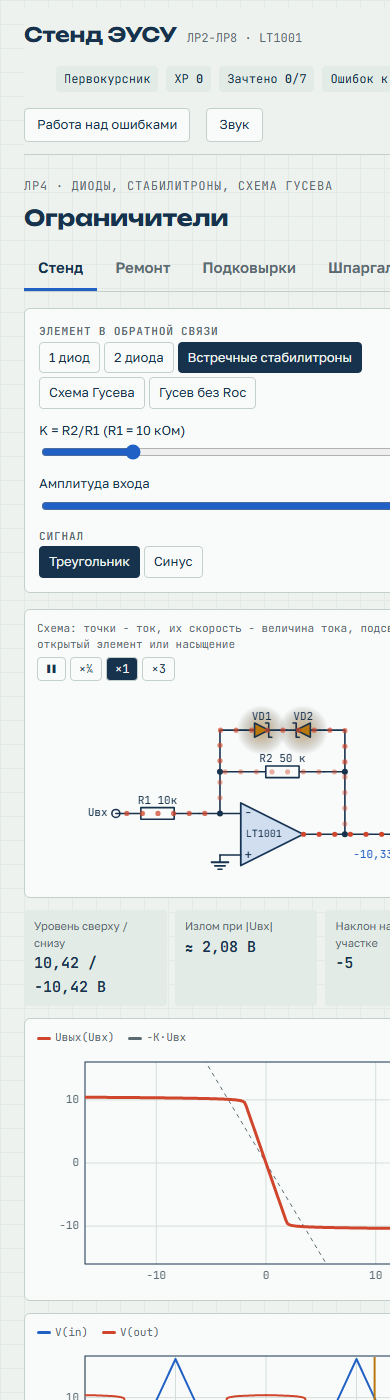
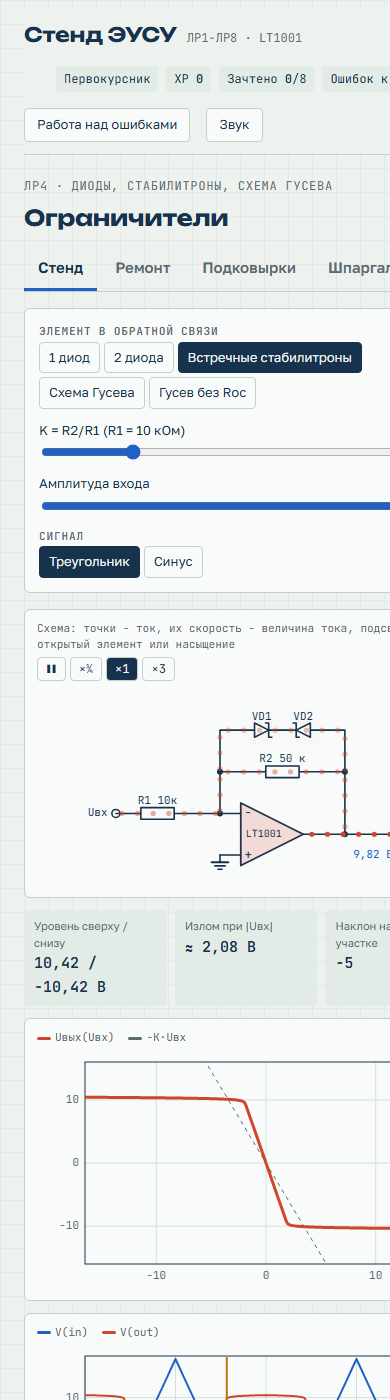
add lab 1 bench

diff --git a/index.html b/index.html
@@ -207,11 +207,11 @@ body::before { content: ""; position: fixed; inset: 0 0 auto; height: env(safe-a
 <body>
 <div class="wrap">
   <header class="top">
-    <button class="brand" id="home" type="button"><h1>Стенд ЭУСУ</h1><span>ЛР2-ЛР8 · LT1001</span></button>
+    <button class="brand" id="home" type="button"><h1>Стенд ЭУСУ</h1><span>ЛР1-ЛР8 · LT1001</span></button>
     <div class="stats">
       <span class="stat" id="rank">Первокурсник</span>
       <span class="stat">XP <b id="xp">0</b></span>
-      <span class="stat">Зачтено <b id="passed">0</b>/7</span>
+      <span class="stat">Зачтено <b id="passed">0</b>/8</span>
       <span class="stat">Ошибок к повтору <b id="due">0</b></span>
     </div>
     <button class="navbtn" id="review" type="button">Работа над ошибками</button>
@@ -531,6 +531,94 @@ function animDraw(dt) {
     }
   }
 }
+
+// ---------- ЛР1: дифференциальный усилитель и сумматоры ----------
+// постоянный ток, конечное усиление A = 7·10^5, насыщение ±13,5 В, предел выходного тока 25 мА
+const OA1 = { A: 7e5, Usat: 13.5, Imax: 0.025 };
+function lr1Solve(s, U1, U2) {
+  const k = s.k, A = OA1.A;
+  let Vo, Um, Up, Iout, lim = '';
+  if (s.c === 'diff') {
+    const R1 = 5e3 * k, R2 = 10e3 * k, R3 = 5e3 * k, R4 = 10e3 * k * (1 + s.mis / 100);
+    Up = U2 * R4 / (R3 + R4);
+    Vo = A * (Up - U1 * R2 / (R1 + R2)) / (1 + A * R1 / (R1 + R2));
+    Iout = (Vo - U1) / (R1 + R2);
+    if (Math.abs(Iout) > OA1.Imax) { Iout = Math.sign(Iout) * OA1.Imax; Vo = U1 + Iout * (R1 + R2); lim = 'ток'; }
+    if (Math.abs(Vo) > OA1.Usat) { Vo = Math.sign(Vo) * OA1.Usat; Iout = (Vo - U1) / (R1 + R2); lim = 'насыщение'; }
+    Um = U1 + (Vo - U1) * R1 / (R1 + R2);
+    return { Vo, Um, Up, Iout, i1: (U1 - Um) / R1, i2: U2 / (R3 + R4), lim, ideal: 2 * (U2 - U1) };
+  }
+  if (s.c === 'inv') {
+    const R1 = 5e3 * k, R2 = 10e3 * k, R3 = 5e3 * k, G = 1 / R1 + 1 / R3 + 1 / R2, a = (U1 / R1 + U2 / R3) / G;
+    Vo = -A * a / (1 + A / (R2 * G));
+    Um = a + Vo / (R2 * G);
+    Iout = (Vo - Um) / R2;
+    if (Math.abs(Iout) > OA1.Imax) { Iout = Math.sign(Iout) * OA1.Imax; Vo = (Iout * R2 + a) / (1 - 1 / (R2 * G)); lim = 'ток'; }
+    if (Math.abs(Vo) > OA1.Usat) { Vo = Math.sign(Vo) * OA1.Usat; lim = 'насыщение'; }
+    Um = a + Vo / (R2 * G); Iout = (Vo - Um) / R2;
+    return { Vo, Um, Up: 0, Iout, i1: (U1 - Um) / R1, i2: (U2 - Um) / R3, lim, ideal: -2 * U1 - 2 * U2 };
+  }
+  const R1 = 25e3 * k, R3 = 50e3 * k, R6 = 100e3 * k, R5 = 100e3 * k, R2 = 600e3 * k;
+  Up = (U1 / R1 + U2 / R3) / (1 / R1 + 1 / R3 + 1 / R6);
+  Vo = A * Up / (1 + A * R5 / (R2 + R5));
+  Iout = Vo / (R2 + R5);
+  if (Math.abs(Iout) > OA1.Imax) { Iout = Math.sign(Iout) * OA1.Imax; Vo = Iout * (R2 + R5); lim = 'ток'; }
+  if (Math.abs(Vo) > OA1.Usat) { Vo = Math.sign(Vo) * OA1.Usat; Iout = Vo / (R2 + R5); lim = 'насыщение'; }
+  Um = Vo * R5 / (R2 + R5);
+  return { Vo, Um, Up, Iout, i1: (U1 - Up) / R1, i2: (U2 - Up) / R3, lim, ideal: 4 * U1 + 2 * U2 };
+}
+const LR1C = { diff: 'Дифференциальный', inv: 'Инвертирующий сумматор', non: 'Неинвертирующий сумматор' };
+const LR1 = {
+  init: { c: 'diff', mode: 'dc', U1: -2, U2: -1, amp: 1, k: 1, mis: 0 },
+  controls: s => [
+    { type: 'seg', key: 'c', label: 'Схема', opts: Object.entries(LR1C) },
+    { type: 'seg', key: 'mode', label: 'Сигналы', opts: [['dc', 'Постоянные U1, U2'], ['cm', 'Синфазный синус'], ['one', 'Синус только на U1']] },
+    ...(s.mode === 'dc' ? [{ type: 'range', key: 'U1', label: 'U1', min: -3, max: 3, step: 0.1, show: v => fmt(v, 1) + ' В' }, { type: 'range', key: 'U2', label: 'U2', min: -3, max: 3, step: 0.1, show: v => fmt(v, 1) + ' В' }]
+      : [{ type: 'range', key: 'amp', label: 'Амплитуда синуса 1 кГц', min: 0.1, max: 5, step: 0.1, show: v => fmt(v, 1) + ' В' }]),
+    { type: 'range', key: 'k', label: 'Масштаб всех резисторов', min: 0.0005, max: 100, log: true, show: v => '×' + (v < 0.01 ? fmt(v, 4) : fmt(v, 2)) },
+    ...(s.c === 'diff' ? [{ type: 'range', key: 'mis', label: 'Разброс R4 относительно нормы', min: -10, max: 10, step: 0.5, show: v => (v > 0 ? '+' : '') + fmt(v, 1) + ' %' }] : []),
+  ],
+  view(s) {
+    const t = [], u1 = [], u2 = [], vo = [], frames = [];
+    for (let i = 0; i <= 240; i++) {
+      const tt = 2 * i / 240, sn = Math.sin(2 * Math.PI * tt);
+      const a = s.mode === 'dc' ? s.U1 : s.amp * sn, b = s.mode === 'dc' ? s.U2 : s.mode === 'cm' ? s.amp * sn : 0;
+      const r = lr1Solve(s, a, b);
+      t.push(tt); u1.push(a); u2.push(b); vo.push(r.Vo);
+      frames.push({ up: r.Up, i1: r.i1, i2: r.i2, ifb: r.i1 + r.i2, iout: r.Iout, vout: r.Vo, oa: r.lim ? Math.sign(r.Vo) : r.Vo / OA1.Usat * 0.6, lim: r.lim ? 1 : 0 });
+    }
+    const r = lr1Solve(s, u1[30], u2[30]);
+    const xs = [], ys = [];
+    for (let i = 0; i <= 200; i++) { const x = -6 + 12 * i / 200; xs.push(x); ys.push(lr1Solve(s, x, s.mode === 'dc' ? s.U2 : 0).Vo); }
+    const R = v => si(v * s.k, 'Ом', 2);
+    const res = { diff: `R1 = R3 = ${R(5e3)}, R2 = ${R(10e3)}, R4 = ${si(10e3 * s.k * (1 + s.mis / 100), 'Ом', 3)}`, inv: `R1 = R3 = ${R(5e3)}, R2 = ${R(10e3)}`, non: `R1 = ${R(25e3)}, R3 = ${R(50e3)}, R5 = R6 = ${R(100e3)}, R2 = ${R(600e3)}` }[s.c];
+    const ro = [['Uвых', fmt(r.Vo, 4) + ' В'], ['По формуле', fmt(r.ideal, 3) + ' В'], ['U− / U+', fmt(r.Um, 4) + ' / ' + fmt(r.Up, 4) + ' В'], ['Ток выхода ОУ', si(Math.abs(r.Iout), 'А')]];
+    if (r.lim) ro.push(['Ограничение', r.lim === 'ток' ? 'предел тока 25 мА' : 'насыщение ±13,5 В']);
+    if (s.mode !== 'dc') ro.unshift(['Значения', 'на пике синуса, t = 0,25 мс']);
+    const notes = {
+      diff: 'Uвых = K(U2 − U1), если R2/R1 = R4/R3. Синфазная часть вычитается сама из себя. Сдвинь разброс R4 и подай синфазный синус: на выход пролезет помеха. Вход U1 нагружает источник на 5 кОм, вход U2 на 15 кОм.',
+      inv: 'Минус - виртуальная земля, токи входов U1/R1 и U2/R3 не мешают друг другу и вместе идут через R2. Уменьши резисторы в 1000 раз: токи станут сотни миллиампер, ОУ упрётся в предел тока, и виртуальная земля пропадёт.',
+      non: 'Плюс - взвешенное среднее входов (R6 участвует как вход с нулём), потом неинвертирующий усилитель ×7. Веса 4 и 2 получаются только при R2/R5 = K1 + K2.',
+    };
+    return {
+      anim: { t, plot: 0, frames },
+      v: { r, vmax: Math.max(...vo.map(Math.abs)) },
+      readouts: ro,
+      plots: [
+        { legend: [['--ch1', 'U1'], ['--ch3', 'U2'], ['--ch2', 'Uвых']], cfg: { x: { min: 0, max: 2, fmt: v => fmt(v, 1) }, y: (() => { const m = Math.max(1, ...vo.map(Math.abs), ...u1.map(Math.abs), ...u2.map(Math.abs)) * 1.15; return { min: -m, max: m, fmt: v => fmt(v, 1) }; })(),
+          series: [{ x: t, y: u1, color: css('--ch1') }, { x: t, y: u2, color: css('--ch3'), dash: [6, 4] }, { x: t, y: vo, color: css('--ch2'), w: 2.5 }], xlabel: 'мс' } },
+        { legend: [['--ch2', 'Uвых(U1), U2 ' + (s.mode === 'dc' ? '= ' + fmt(s.U2, 1) + ' В' : '= 0')]], cfg: { x: { min: -6, max: 6, fmt: v => fmt(v, 0) }, y: { min: -15, max: 15, fmt: v => fmt(v, 0) },
+          series: [{ x: xs, y: ys, color: css('--ch2'), w: 3 }], hlines: [{ y: 13.5, color: css('--muted') }, { y: -13.5, color: css('--muted') }], points: s.mode === 'dc' ? [{ x: s.U1, y: r.Vo, color: css('--ch1') }] : [], xlabel: 'U1, В' } },
+      ],
+      note: notes[s.c] + ' Номиналы: ' + res + '.',
+    };
+  },
+  missions: [
+    { id: 'cmzero', text: 'Дифференциальный: подай синфазный синус и убедись, что выход ноль.', check: (s, v) => s.c === 'diff' && s.mode === 'cm' && s.mis === 0 && v.vmax < 1e-3 },
+    { id: 'leak', text: 'Дифференциальный, синфазный синус 1 В: сделай разброс R4 таким, чтобы на выход пролезло больше 30 мВ.', check: (s, v) => s.c === 'diff' && s.mode === 'cm' && v.vmax > 0.03, after: 'Помеха ≈ Uсф·ΔR/R·K/(1+K): точность резисторов решает всё.' },
+    { id: 'ilim', text: 'Инвертирующий сумматор, U1 = 1 В, U2 = 2 В: уменьши резисторы так, чтобы ОУ упёрся в предел тока.', check: (s, v) => s.c === 'inv' && s.mode === 'dc' && v.r.lim === 'ток', after: 'При 5 и 10 Ом токи 0,2 + 0,4 = 0,6 А, а ОУ даёт около 25 мА.' },
+  ],
+};
 
 // ---------- ЛР2: интегратор и дифференциатор ----------
 const LR2C = {
@@ -1111,6 +1199,53 @@ const LR8 = {
 // ---------- вопросы ----------
 // type c: варианты [текст, верно?, почему]; type n: число с допуском (rel или abs)
 const Q = {
+lr1: [
+  { id: 'z1', t: 'n', q: 'Дифференциальный усилитель с K = 2: U1 = −2 В, U2 = −1 В. Чему равен выход?', ans: 2, abs: 0.02, unit: 'В', exp: 'Uвых = K(U2 − U1) = 2·(−1 + 2) = 2 В. По наложению: вклад U1 = −2·(−2) = 4 В, вклад U2 = 2·(−1) = −2 В.' },
+  { id: 'z2', t: 'c', q: 'На оба входа дифференциального усилителя подали одинаковый синус 1 В. Что на выходе?', o: [
+    ['Ноль: синфазная часть вычитается сама из себя', 1, 'U2 − U1 = 0. Так подавляется помеха, наведённая одновременно на оба провода.'],
+    ['Синус 2 В', 0, 'Это было бы при сигнале только на одном входе.'],
+    ['Синус 4 В', 0, 'Синфазный сигнал не складывается.'],
+    ['Насыщение', 0, 'Выходу нечего усиливать.']], exp: 'Подавление полное, только если R2/R1 = R4/R3 точно.', say: 'Дифференциальный усилитель усиливает разность входов, а одинаковую (синфазную) часть подавляет при согласованных отношениях резисторов.' },
+  { id: 'z3', t: 'c', q: 'В дифференциальном усилителе R4 отличается от нормы на 5 %. Синфазный синус 1 В. Что изменится?', o: [
+    ['На выход пролезет часть синфазного сигнала, десятки милливольт', 1, 'Условие R2/R1 = R4/R3 нарушено, вклады входов больше не равны по модулю: Uвых ≈ Uсф·ΔR/R·K/(1+K) ≈ 33 мВ.'],
+    ['Ничего: схема всё равно вычитает', 0, 'Вычитает, только если веса входов одинаковы.'],
+    ['Выход уйдёт в насыщение', 0, 'Помеха маленькая, до насыщения далеко.'],
+    ['Коэффициент станет 2,1 для разности, а синфазный по-прежнему ноль', 0, 'Нет, именно синфазный перестаёт подавляться.']], exp: 'Поэтому в измерительных усилителях ставят точные согласованные резисторы.' },
+  { id: 'z4', t: 'n', q: 'Инвертирующий сумматор, R1 = R3 = 5 кОм, R2 = 10 кОм. U1 = 1 В, U2 = 2 В. Выход?', ans: -6, abs: 0.02, unit: 'В', exp: 'Uвых = −R2(U1/R1 + U2/R3) = −2·1 − 2·2 = −6 В.' },
+  { id: 'z5', t: 'n', q: 'Тот же сумматор, U1 = 1 В, U2 = 2 В. Ток через R2, мА?', ans: 0.6, abs: 0.01, unit: 'мА', exp: 'I1 = 1/5000 = 0,2 мА, I2 = 2/5000 = 0,4 мА. В ОУ ток не втекает, оба идут через R2: 0,6 мА.' },
+  { id: 'z6', t: 'c', q: 'В инвертирующем сумматоре все резисторы уменьшили в 1000 раз: 5 Ом и 10 Ом. U1 = 1 В, U2 = 2 В. Что будет?', o: [
+    ['Токи 0,2 + 0,4 = 0,6 А, а ОУ отдаёт около 25 мА: выход упрётся в предел тока, виртуальная земля пропадёт, сумма не получится', 1, 'Формула −R2(U1/R1 + U2/R3) не зависит от масштаба, но выполняется, только пока ОУ может отдать нужный ток. Ещё и источники сигнала будут нагружены на 5 Ом.'],
+    ['То же −6 В: важны только отношения резисторов', 0, 'Отношения важны, но ток через R2 вырастет в 1000 раз, до 0,6 А.'],
+    ['Выход станет −6000 В', 0, 'Коэффициенты не изменились, а выход ограничен питанием.'],
+    ['ОУ станет точнее', 0, 'Наоборот, он не вытянет ток.']], exp: 'Номиналы выбирают в разумных пределах: килоомы - сотни килоом. Слишком маленькие перегружают ОУ и источники, слишком большие (мегаомы) делают заметными токи смещения и шум.', say: 'Коэффициенты задают отношения резисторов, а абсолютные номиналы задают токи. При 5 и 10 Ом нужен ток 0,6 А, ОУ даёт десятки миллиампер, и схема перестаёт работать.' },
+  { id: 'z7', t: 'c', q: 'А если все резисторы сумматора увеличить в 1000 раз (5 и 10 МОм)?', o: [
+    ['Работает, но заметнее станут токи смещения ОУ и шум, а схема чувствительнее к наводкам', 1, 'Токи станут сотни наноампер, сравнимые с входными токами ОУ.'],
+    ['Выход станет −6000 В', 0, 'Коэффициенты прежние.'],
+    ['ОУ сгорит', 0, 'Токи наоборот малы.'],
+    ['Выход станет ноль', 0, 'Нет.']], exp: 'Отсюда типичный диапазон: единицы - сотни килоом.' },
+  { id: 'z8', t: 'c', q: 'Что такое виртуальная земля на минусе инвертирующего сумматора?', o: [
+    ['Точка не соединена с землёй, но обратная связь удерживает на ней почти 0 В', 1, 'U− = U+ − Uвых/A, а плюс на земле: при A = 7·10⁵ разница микровольты.'],
+    ['Минус ОУ соединён с землёй проводом', 0, 'Тогда схема не работала бы.'],
+    ['Место, где нет тока', 0, 'Через узел течёт ток входов в R2, он просто не уходит в сам ОУ.'],
+    ['Средняя точка питания', 0, 'Это про однополярное питание, как div2 в ЛР7.']], exp: 'Поэтому каждый вход сумматора видит только свой резистор, и входы не влияют друг на друга.' },
+  { id: 'z9', t: 'n', q: 'Неинвертирующий сумматор с K1 = 4, K2 = 2. U1 = 1 В, U2 = 2 В. Выход?', ans: 8, abs: 0.05, unit: 'В', exp: '4·1 + 2·2 = 8 В. Через схему: U+ = (1/25 + 2/50)/(1/25 + 1/50 + 1/100) = 1,143 В, ×(1 + 600/100) = 8 В.' },
+  { id: 'z10', t: 'c', q: 'Почему в неинвертирующем сумматоре R2 = 600 кОм при R5 = 100 кОм?', o: [
+    ['Условие весов: R2/R5 = R6/R1 + R6/R3 = 4 + 2 = 6', 1, 'Только тогда коэффициенты получаются ровно K1 = R6/R1 и K2 = R6/R3.'],
+    ['Чтобы K был максимальным', 0, 'K задан вариантом.'],
+    ['Для компенсации токов смещения', 0, 'Нет.'],
+    ['Случайный выбор', 0, 'Выведен из условия согласования.']], exp: 'Без этого условия веса будут отличаться от 4 и 2: вход R6 тоже участвует в усреднении.' },
+  { id: 'z11', t: 'c', q: 'Почему вход U1 дифференциального усилителя нагружает источник сильнее, чем U2?', o: [
+    ['U1 видит R1 = 5 кОм до виртуальной земли, U2 видит делитель R3 + R4 = 15 кОм', 1, 'Входы несимметричны по входному сопротивлению.'],
+    ['На U1 больше напряжение', 0, 'Зависит от схемы, а не от напряжения.'],
+    ['U1 на инвертирующем входе, а он всегда хуже', 0, 'Дело в резисторах.'],
+    ['Они нагружают одинаково', 0, 'Нет.']], exp: 'Если источники с большим внутренним сопротивлением, это нарушит согласование и подавление помехи.' },
+  { id: 'z12', t: 'n', q: 'У LT1001 A = 7·10⁵ и GBW = 0,8 МГц. На какой частоте начинается спад усиления, Гц?', ans: 1.14, rel: 0.05, unit: 'Гц', exp: 'fp = GBW/A = 0,8·10⁶ / 7·10⁵ ≈ 1,14 Гц. Выше неё A ≈ fT/f, это основа всех ограничений в ЛР2-ЛР5.' },
+  { id: 'z13', t: 'c', q: 'Почему в модели выход дифференциального усилителя 1,99999 В, а не ровно 2?', o: [
+    ['Конечное усиление ОУ: относительная ошибка около (1 + K)/A', 1, '3 / 7·10⁵ ≈ 4·10⁻⁶, то есть единицы микровольт на вольт.'],
+    ['Ошибка расчёта номиналов', 0, 'Номиналы точные.'],
+    ['Шум', 0, 'В модели нет шума.'],
+    ['Насыщение', 0, 'До 13,5 В далеко.']], exp: 'С идеальным ОУ (A = ∞) было бы ровно 2.' },
+],
 lr2: [
   { id: 'a1', t: 'n', q: 'Идеальный интегратор: R1 = 100 кОм, C1 = 795,8 пФ (K = 1 на 2 кГц). На вход синус 0,5 В на 200 Гц. Амплитуда выхода?', ans: 5, rel: 0.05, unit: 'В', exp: 'K = 1/(2πf·R1·C1). Частота в 10 раз ниже, Xc в 10 раз больше, K = 10. 0,5 × 10 = 5 В, это меньше 14 В, синус чистый.', say: 'K обратно пропорционален частоте: на 200 Гц K = 10, выход 5 В.' },
   { id: 'a2', t: 'c', q: 'Тот же интегратор, синус 0,5 В на 20 Гц. Что на выходе?', o: [
@@ -1392,6 +1527,7 @@ lr8: [
 
 // ---------- шпаргалки ----------
 const CHEAT = {
+  lr1: [['Два правила', 'Ток во входы ОУ ≈ 0, напряжения входов равны (пока ОУ не в насыщении).', 'I± ≈ 0, U+ ≈ U−'], ['Дифференциальный', 'K = R2/R1 = R4/R3 = 2. Усиливает разность, синфазную часть подавляет. Вход U1 5 кОм, U2 15 кОм.', 'Uвых = K(U2 − U1)'], ['Инвертирующий сумматор', 'Минус - виртуальная земля, токи входов складываются в R2. Входы не мешают друг другу.', 'Uвых = −R2(U1/R1 + U2/R3) = −2U1 − 2U2'], ['Неинвертирующий сумматор', 'U+ - взвешенное среднее входов с R6, затем ×(1 + R2/R5) = 7.', 'R2/R5 = K1 + K2 → 4U1 + 2U2'], ['Номиналы', 'Коэффициенты задают отношения, токи - абсолютные значения. 5 Ом: токи 0,6 А, ОУ даёт ~25 мА.', 'типично 1-500 кОм'], ['Модель LT1001', 'A = 7·10⁵, GBW = 0,8 МГц, SR 0,25 В/мкс, выход ±13,5 В.', 'fp = GBW/A ≈ 1,14 Гц']],
   lr2: [['Идеальный интегратор', 'K = 1/(2πfR1C1), на 2 кГц = 1. Ниже частоты K растёт - насыщение и дрейф.', 'Uвых = −(1/RC)∫Uвх dt'], ['Практический интегратор', 'R2 ∥ C1. Ниже fср усилитель с K = R2/R1 = 10, выше интегратор. fср в 10 раз ниже рабочей.', 'fср = 1/(2πR2C1) = 200 Гц'], ['R3', 'Компенсирует токи смещения, равен сопротивлению цепи минуса по постоянному току.', 'R3 = R1∥R2 ≈ 91 кОм'], ['Полоса ОУ', 'A = fT/f, fT ≈ 0,8 МГц. Усилитель с K работает до fT/K.', 'A(2 кГц) ≈ 400'], ['Пик дифференциатора', 'Растущий K встречает fT/f, фазы 90°+90°: LC-резонанс. 864 на 41,7 кГц.', 'f ≈ √(f₁·fT), L = R2/(2πfT)'], ['Практический дифференциатор', 'R1 ограничивает K до R2/R1 = 100 и гасит пик (90 на 12,6 кГц), C2 режет выше 200 кГц.', 'нужен ОУ с fT ≥ 2 МГц']],
   lr3: [['Компаратор', 'ОУ без отрицательной ОС, выход в насыщении ±14 В показывает, какой вход больше.', 'выход +, когда U+ > U−'], ['Ограничения', 'Усиление: Uвх > 14·f/fT. Скорость: 28 В / 0,25 В/мкс = 112 мкс на переход.', 'f < 1/(2·112 мкс)'], ['Одновходовый', 'Токи складываются на одном входе, порог масштабируется резисторами.', 'Uпор = −Uоп·R1/R2'], ['Гистерезис', 'Положительная ОС на плюс. После переключения порог отскакивает - шум не вызывает дребезга.', 'U+ = Uоп·R2/(R1+R2) ± Uнас·R1/(R1+R2)'], ['Триггер Шмитта', 'VT1 закорачивает R3, порог 7 → 3,96 В. D1 защищает переход Б-Э, стабилитрон даёт ТТЛ 4,7 В.', 'R_B по h21 min = 50'], ['Оконный', 'U1 выше H, U2 ниже L, диоды «ИЛИ», R4 тянет к нулю.', 'U точки = I·(всё ниже точки)']],
   lr4: [['Принцип', 'Инвертирующий усилитель K = 5 с нелинейным элементом параллельно R2. Минус - виртуальная земля, на элементе всё Uвых.', 'излом при |Uвх| = Uogr/K'], ['Диоды', 'Направление - какая полуволна, число - уровень: 0,61 и −1,21 В.', '≈ 0,6 В на диод'], ['Встречные стабилитроны', 'Один в пробое, другой прямо: ±10,43 В (ток 1,65 мА < 5 мА).', 'Uz + Ud'], ['Схема Гусева', 'Мост, стабилитрон держится в пробое от питания: излом резкий, ±11,37 В.', 'Uz + 2Ud, R2 = R3 = (2E − Uz)/(2Iz)'], ['Без Rос', 'Нет ООС в линейном режиме - компаратор с уровнями ±11,4 В.', '']],
@@ -1403,6 +1539,7 @@ const CHEAT = {
 
 // ---------- описание лаб ----------
 const LABS = [
+  { id: 'lr1', no: 'ЛР1', title: 'Дифференциальный усилитель и сумматоры', sub: 'Виртуальная земля, синфазный сигнал, номиналы', sim: LR1 },
   { id: 'lr2', no: 'ЛР2', title: 'Интегратор и дифференциатор', sub: 'Полоса ОУ, частота среза, резонансный пик', sim: LR2 },
   { id: 'lr3', no: 'ЛР3', title: 'Компараторы', sub: 'Пороги, гистерезис, триггер Шмитта, окно', sim: LR3 },
   { id: 'lr4', no: 'ЛР4', title: 'Ограничители', sub: 'Диоды, стабилитроны, схема Гусева', sim: LR4 },
@@ -1520,6 +1657,19 @@ function drawScheme(cv, sc, fr, flowPh) {
 const F = { mA: v => fmt(v * 1e3, 1) + ' мА', A: v => fmt(v, 2) + ' А', V: v => fmt(v, 2) + ' В' };
 // схемы по лабам: возвращают {x0,y0,x1,y1, items, flows:[{pts, key}]}
 const SCH = {
+  lr1(s) {
+    const R = (v, n) => n + ' ' + si(v * s.k, '', 2);
+    const out = [['oa', 8, 4, 'LT1001', 'oa'], ['w', [[11, 4], [15, 4]]], ['dot', 13, 4], ['term', 15, 4, 'Uвых', 'r'], ['val', 13.4, 5, 'vout', F.V], ['val', 11.2, 2.6, 'lim', v => v ? 'предел тока' : '', 'left']];
+    if (s.c === 'diff') return { x0: -1.5, y0: 0.2, x1: 17, y1: 8.4, items: [...out, ['term', 2, 3, 'U1'], ['R', 2, 3, 6, 3, R(5e3, 'R1')], ['w', [[6, 3], [8, 3]]], ['dot', 7, 3], ['w', [[7, 3], [7, 1], [8, 1]]], ['R', 8, 1, 12, 1, R(10e3, 'R2')], ['w', [[12, 1], [13, 1], [13, 4]]],
+      ['term', 2, 5, 'U2'], ['R', 2, 5, 6, 5, R(5e3, 'R3')], ['w', [[6, 5], [8, 5]]], ['dot', 7, 5], ['R', 7, 5, 7, 7.5, R(10e3 * (1 + s.mis / 100), 'R4')], ['gnd', 7, 7.5]],
+      flows: [{ pts: [[2, 3], [7, 3]], key: 'i1', norm: 'iout' }, { pts: [[7, 3], [7, 1], [13, 1], [13, 4]], key: 'i1', norm: 'iout' }, { pts: [[2, 5], [7, 5], [7, 7.5]], key: 'i2', norm: 'iout' }, { pts: [[11, 4], [15, 4]], key: 'vout' }] };
+    if (s.c === 'inv') return { x0: -1.5, y0: -1.8, x1: 17, y1: 6.4, items: [...out, ['term', 2, 3, 'U1'], ['R', 2, 3, 6, 3, R(5e3, 'R1')], ['w', [[6, 3], [8, 3]]], ['dot', 7, 3], ['dot', 7.5, 3], ['term', 2, 1, 'U2'], ['R', 2, 1, 6, 1, R(5e3, 'R3')], ['w', [[6, 1], [7, 1], [7, 3]]],
+      ['w', [[7.5, 3], [7.5, -1], [8, -1]]], ['R', 8, -1, 12, -1, R(10e3, 'R2')], ['w', [[12, -1], [13, -1], [13, 4]]], ['w', [[8, 5], [7, 5]]], ['gnd', 7, 5], ['txt', 6.5, 3.6, 'вирт. земля', 'right']],
+      flows: [{ pts: [[2, 3], [7, 3]], key: 'i1', norm: 'ifb' }, { pts: [[2, 1], [7, 1], [7, 3]], key: 'i2', norm: 'ifb' }, { pts: [[7.5, 3], [7.5, -1], [13, -1], [13, 4]], key: 'ifb', norm: 'ifb' }, { pts: [[11, 4], [15, 4]], key: 'vout' }] };
+    return { x0: -1.5, y0: 0.2, x1: 17, y1: 10.4, items: [...out, ['term', 2, 5, 'U1'], ['R', 2, 5, 6, 5, R(25e3, 'R1')], ['w', [[6, 5], [8, 5]]], ['dot', 7, 5], ['term', 2, 7, 'U2'], ['R', 2, 7, 6, 7, R(50e3, 'R3')], ['w', [[6, 7], [7, 7], [7, 5]]], ['dot', 7, 7], ['R', 7, 7, 7, 9.5, R(100e3, 'R6')], ['gnd', 7, 9.5],
+      ['R', 4, 3, 8, 3, R(100e3, 'R5')], ['gnd', 4, 3], ['dot', 7, 3], ['w', [[7, 3], [7, 1], [8, 1]]], ['R', 8, 1, 12, 1, R(600e3, 'R2')], ['w', [[12, 1], [13, 1], [13, 4]]], ['val', 7.6, 6, 'up', v => 'U+ ' + fmt(v, 3)]],
+      flows: [{ pts: [[2, 5], [7, 5]], key: 'i1', norm: 'i1' }, { pts: [[2, 7], [7, 7]], key: 'i2', norm: 'i1' }, { pts: [[13, 4], [13, 1], [7, 1], [7, 3], [4, 3]], key: 'iout' }, { pts: [[11, 4], [15, 4]], key: 'vout' }] };
+  },
   lr2(s) {
     const it = [['src', 1, 6, 'Vin'], ['gnd', 1, 7], ['w', [[1, 5], [1, 4], [3, 4]]], ['w', [[7, 4], [9, 4]]], ['dot', 8, 4],
       ['oa', 9, 5, 'LT1001', 'oa'], ['w', [[9, 6], [8, 6]]], ['gnd', 8, 6], ['w', [[8, 4], [8, 2], [9, 2]]], ['w', [[12, 2], [13, 2], [13, 5]]],
@@ -1663,6 +1813,12 @@ const rank = xp => RANKS.filter(r => xp >= r[0]).pop()[1];
 
 // ---------- ремонт: найди неисправность по осциллограмме ----------
 const FAULTS = {
+  lr1: [
+    { q: 'Дифференциальный усилитель, на оба входа одинаковый синус 1 В. Выход должен быть нулём, а там синус. Что не так?', show: { c: 'diff', mode: 'cm', amp: 1, mis: 8 }, plot: 0, o: [
+      ['Резисторы не согласованы: R4/R3 ≠ R2/R1', 1, 'Здесь R4 на 8 % больше нормы, и синфазный сигнал пролезает на выход.'], ['Сигнал подан только на один вход', 0, 'Тогда выход был бы 2 В с инверсией.'], ['ОУ в насыщении', 0, 'Выход маленький, до ±13,5 В далеко.'], ['Мало усиление ОУ', 0, 'Конечное A даёт микровольты, а здесь десятки милливольт.']] },
+    { q: 'Инвертирующий сумматор, U1 = 1 В, U2 = 2 В. Ожидали −6 В, а на выходе около +1,2 В. Что не так?', show: { c: 'inv', mode: 'dc', U1: 1, U2: 2, k: 0.001 }, plot: 1, o: [
+      ['Резисторы слишком малы: нужен ток 0,6 А, ОУ упирается в предел около 25 мА', 1, 'Отношения правильные, но номиналы 5 и 10 Ом. ОУ не может втянуть 0,6 А, и входы сами тянут выход вверх через резисторы.'], ['Перепутаны R1 и R2', 0, 'Тогда K был бы 0,5, а выход −1,5 В.'], ['Обрыв R2', 0, 'Без ОС выход ушёл бы в насыщение.'], ['Плюс не заземлён', 0, 'Плюс на земле.']] },
+  ],
   lr2: [
     { q: 'Идеальный интегратор, на входе синус 0,5 В. Выход срезан сверху и снизу. Что не так?', show: { c: 'int', f: 30, amp: 0.5, wave: 'sine', ideal: 'lt' }, plot: 1, o: [
       ['Частота слишком низкая: K = 1/(2πfRC) ≈ 67, выход упирается в ±14 В', 1, 'На 30 Гц нужно 33 В, ОУ даёт максимум 14.'], ['Сгорел C1', 0, 'Без C1 обратной связи нет вообще, выход стоял бы в насыщении постоянно, без синусоидальных участков.'], ['Слишком большая частота', 0, 'На высокой частоте K интегратора, наоборот, падает.'], ['Нет питания ОУ', 0, 'Без питания выход был бы около нуля.']] },
@@ -1740,8 +1896,8 @@ function showMap() {
   current = { screen: 'map' };
   refreshStats();
   const lit = LABS.filter(l => progress.labs[l.id].best >= 0.8).length;
-  view.innerHTML = `<section class="hero"><h2>${lit === 7 ? 'Все стенды под напряжением' : 'Лаборатория обесточена'}</h2>
-    <p>${lit === 7 ? 'Все семь стендов зачтены. Осталось сдать экзамен.' : `Под напряжением ${lit} из 7 стендов. Чтобы включить стенд, разберись со схемой, почини неисправности и сдай подковырки на 80 %.`} На стенде схема живая: ток бежит по проводам, графики пересчитываются от каждого ползунка. Ошибки возвращаются через 1, 3 и 7 дней.</p></section>
+  view.innerHTML = `<section class="hero"><h2>${lit === LABS.length ? 'Все стенды под напряжением' : 'Лаборатория обесточена'}</h2>
+    <p>${lit === LABS.length ? 'Все восемь стендов зачтены. Осталось сдать экзамен.' : `Под напряжением ${lit} из ${LABS.length} стендов. Чтобы включить стенд, разберись со схемой, почини неисправности и сдай подковырки на 80 %.`} На стенде схема живая: ток бежит по проводам, графики пересчитываются от каждого ползунка. Ошибки возвращаются через 1, 3 и 7 дней.</p></section>
     <div class="benches">${LABS.map(l => {
       const s = stars(l.id), pass = progress.labs[l.id].best >= 0.8;
       return `<button class="bench" type="button" data-lab="${l.id}"><span class="no">${l.no}<small><span class="led ${pass ? 'on' : ''}"></span>${pass ? 'включён' : 'стенд'}</small></span>
@@ -1909,7 +2065,7 @@ if (document.fonts) document.fonts.ready.then(rerender);
 const start = data => {
   if (data && data.progress) progress = data.progress;
   refreshStats();
-  const h = /^#(lr[2-8])(?:-(quiz|cheat))?$/.exec(location.hash);
+  const h = /^#(lr[1-8])(?:-(quiz|cheat|repair))?$/.exec(location.hash);
   if (data && data.current && data.current.screen === 'lab') openLab(data.current.id, data.current.tab);
   else if (h) openLab(h[1], h[2] || 'bench');
   else if (location.hash === '#exam') startQuiz(examSet(), 'Экзамен', null, 3);

diff --git a/README.md b/README.md
@@ -2,7 +2,7 @@
 
 Тренажёр по лабораторным работам курса «Электронные устройства систем управления», ИТМО.
 
-Семь стендов (ЛР2-ЛР8): анимированные схемы на ОУ LT1001 с бегущим током, поиск неисправностей по осциллограмме, вопросы «что будет, если», шпаргалки и экзамен на время.
+Восемь стендов (ЛР1-ЛР8): анимированные схемы на ОУ LT1001 с бегущим током, поиск неисправностей по осциллограмме, вопросы «что будет, если», шпаргалки и экзамен на время.
 
 Играть: https://eusu-stand.vercel.app
 
